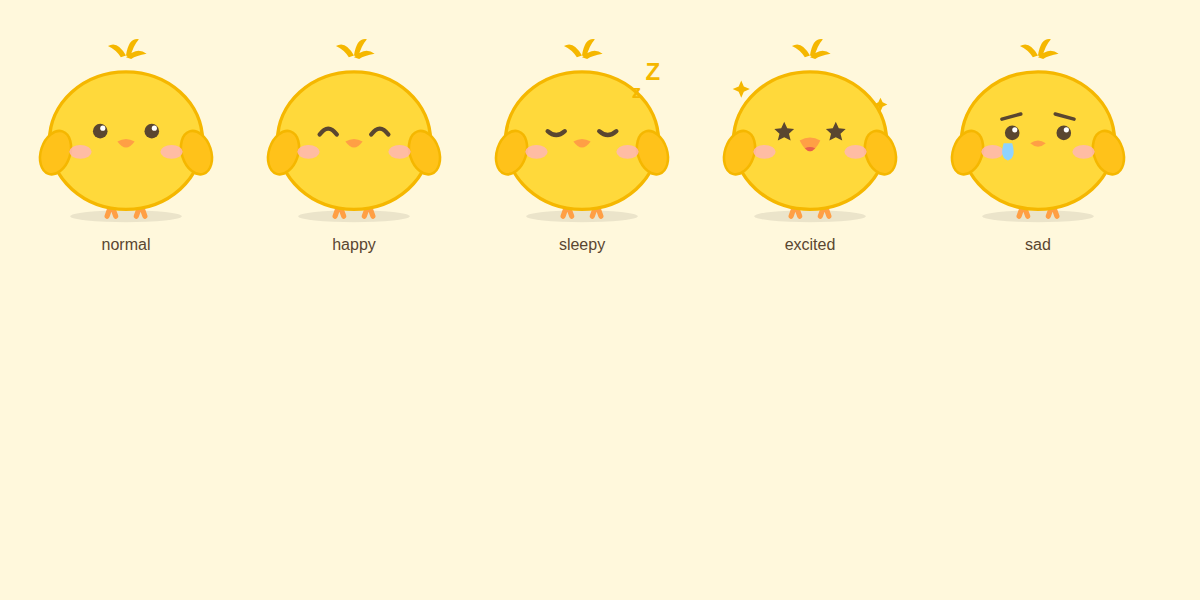
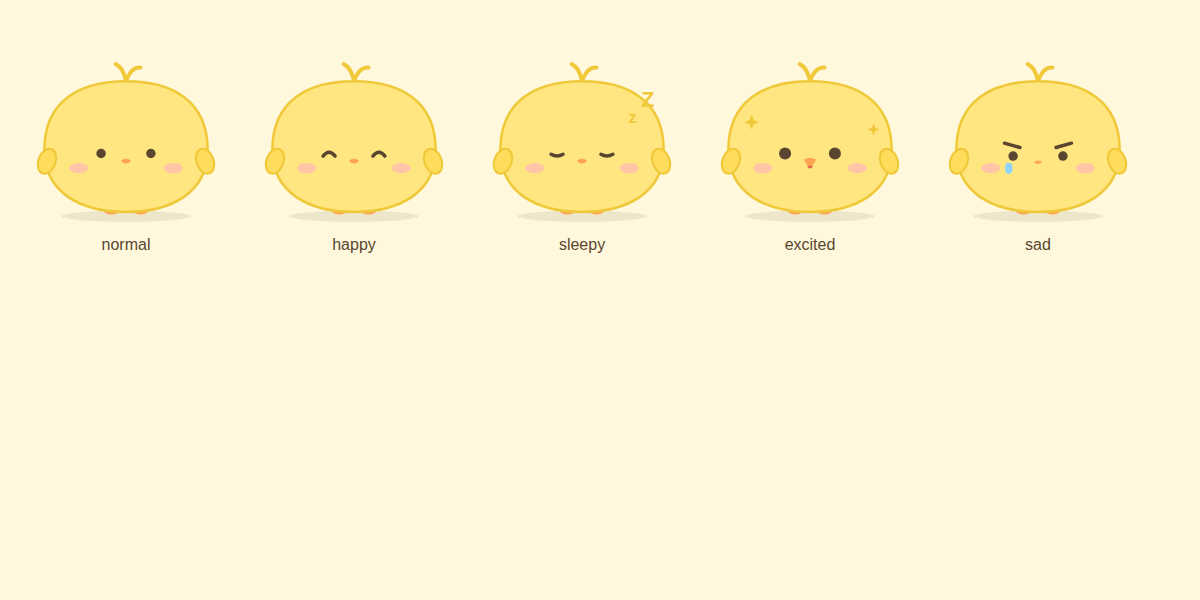
Redraw chick (pale yellow, dot eyes) and rework home layout
Claude-Session: https://claude.ai/code/session_01URLdKwTXqM65WTxiyKZpAR

diff --git a/app/src/chickSvgs.ts b/app/src/chickSvgs.ts
@@ -1,9 +1,9 @@
 // 자동 생성 파일 — tools/make_chick.js 로 만들어집니다. 직접 고치지 마세요.
 export const chickSvgs = {
-  normal: "<svg xmlns=\"http://www.w3.org/2000/svg\" viewBox=\"0 0 512 512\" width=\"512\" height=\"512\">\n  <ellipse cx=\"256\" cy=\"466\" rx=\"130\" ry=\"14\" fill=\"#000\" opacity=\"0.08\"/>\n  <path d=\"M222 438 L212 466 M222 438 L232 466 M290 438 L280 466 M290 438 L300 466\" stroke=\"#FF9F45\" stroke-width=\"12\" stroke-linecap=\"round\"/>\n  <path d=\"M256 92 Q236 56 214 70 Q232 78 244 96z M256 92 Q262 50 286 54 Q272 70 266 96z M256 96 Q282 70 304 88 Q280 92 268 100z\" fill=\"#F5B700\"/>\n  <ellipse cx=\"256\" cy=\"290\" rx=\"178\" ry=\"160\" fill=\"#FFD93B\" stroke=\"#F5B700\" stroke-width=\"8\"/>\n  <ellipse cx=\"92\" cy=\"318\" rx=\"34\" ry=\"52\" fill=\"#FFC21A\" stroke=\"#F5B700\" stroke-width=\"6\" transform=\"rotate(18 92 318)\"/>\n  <ellipse cx=\"420\" cy=\"318\" rx=\"34\" ry=\"52\" fill=\"#FFC21A\" stroke=\"#F5B700\" stroke-width=\"6\" transform=\"rotate(-18 420 318)\"/>\n  <ellipse cx=\"150\" cy=\"316\" rx=\"26\" ry=\"16\" fill=\"#FFB6B6\" opacity=\"0.85\"/>\n  <ellipse cx=\"362\" cy=\"316\" rx=\"26\" ry=\"16\" fill=\"#FFB6B6\" opacity=\"0.85\"/>\n  <circle cx=\"196\" cy=\"268\" r=\"17\" fill=\"#5A4630\"/><circle cx=\"316\" cy=\"268\" r=\"17\" fill=\"#5A4630\"/>\n           <circle cx=\"202\" cy=\"261\" r=\"6\" fill=\"#fff\"/><circle cx=\"322\" cy=\"261\" r=\"6\" fill=\"#fff\"/>\n  <path d=\"M236 292 Q256 280 276 292 Q256 320 236 292z\" fill=\"#FF9F45\"/>\n</svg>",
-  happy: "<svg xmlns=\"http://www.w3.org/2000/svg\" viewBox=\"0 0 512 512\" width=\"512\" height=\"512\">\n  <ellipse cx=\"256\" cy=\"466\" rx=\"130\" ry=\"14\" fill=\"#000\" opacity=\"0.08\"/>\n  <path d=\"M222 438 L212 466 M222 438 L232 466 M290 438 L280 466 M290 438 L300 466\" stroke=\"#FF9F45\" stroke-width=\"12\" stroke-linecap=\"round\"/>\n  <path d=\"M256 92 Q236 56 214 70 Q232 78 244 96z M256 92 Q262 50 286 54 Q272 70 266 96z M256 96 Q282 70 304 88 Q280 92 268 100z\" fill=\"#F5B700\"/>\n  <ellipse cx=\"256\" cy=\"290\" rx=\"178\" ry=\"160\" fill=\"#FFD93B\" stroke=\"#F5B700\" stroke-width=\"8\"/>\n  <ellipse cx=\"92\" cy=\"318\" rx=\"34\" ry=\"52\" fill=\"#FFC21A\" stroke=\"#F5B700\" stroke-width=\"6\" transform=\"rotate(18 92 318)\"/>\n  <ellipse cx=\"420\" cy=\"318\" rx=\"34\" ry=\"52\" fill=\"#FFC21A\" stroke=\"#F5B700\" stroke-width=\"6\" transform=\"rotate(-18 420 318)\"/>\n  <ellipse cx=\"150\" cy=\"316\" rx=\"26\" ry=\"16\" fill=\"#FFB6B6\" opacity=\"0.85\"/>\n  <ellipse cx=\"362\" cy=\"316\" rx=\"26\" ry=\"16\" fill=\"#FFB6B6\" opacity=\"0.85\"/>\n  <path d=\"M176 276 Q196 248 216 276\" stroke=\"#5A4630\" stroke-width=\"10\" fill=\"none\" stroke-linecap=\"round\"/>\n          <path d=\"M296 276 Q316 248 336 276\" stroke=\"#5A4630\" stroke-width=\"10\" fill=\"none\" stroke-linecap=\"round\"/>\n  <path d=\"M236 292 Q256 280 276 292 Q256 320 236 292z\" fill=\"#FF9F45\"/>\n</svg>",
-  sleepy: "<svg xmlns=\"http://www.w3.org/2000/svg\" viewBox=\"0 0 512 512\" width=\"512\" height=\"512\">\n  <ellipse cx=\"256\" cy=\"466\" rx=\"130\" ry=\"14\" fill=\"#000\" opacity=\"0.08\"/>\n  <path d=\"M222 438 L212 466 M222 438 L232 466 M290 438 L280 466 M290 438 L300 466\" stroke=\"#FF9F45\" stroke-width=\"12\" stroke-linecap=\"round\"/>\n  <path d=\"M256 92 Q236 56 214 70 Q232 78 244 96z M256 92 Q262 50 286 54 Q272 70 266 96z M256 96 Q282 70 304 88 Q280 92 268 100z\" fill=\"#F5B700\"/>\n  <ellipse cx=\"256\" cy=\"290\" rx=\"178\" ry=\"160\" fill=\"#FFD93B\" stroke=\"#F5B700\" stroke-width=\"8\"/>\n  <ellipse cx=\"92\" cy=\"318\" rx=\"34\" ry=\"52\" fill=\"#FFC21A\" stroke=\"#F5B700\" stroke-width=\"6\" transform=\"rotate(18 92 318)\"/>\n  <ellipse cx=\"420\" cy=\"318\" rx=\"34\" ry=\"52\" fill=\"#FFC21A\" stroke=\"#F5B700\" stroke-width=\"6\" transform=\"rotate(-18 420 318)\"/>\n  <ellipse cx=\"150\" cy=\"316\" rx=\"26\" ry=\"16\" fill=\"#FFB6B6\" opacity=\"0.85\"/>\n  <ellipse cx=\"362\" cy=\"316\" rx=\"26\" ry=\"16\" fill=\"#FFB6B6\" opacity=\"0.85\"/>\n  <path d=\"M176 268 Q196 286 216 268\" stroke=\"#5A4630\" stroke-width=\"10\" fill=\"none\" stroke-linecap=\"round\"/>\n          <path d=\"M296 268 Q316 286 336 268\" stroke=\"#5A4630\" stroke-width=\"10\" fill=\"none\" stroke-linecap=\"round\"/>\n          <text x=\"372\" y=\"190\" font-size=\"44\" font-weight=\"700\" fill=\"#F5B700\" font-family=\"sans-serif\">z</text>\n          <text x=\"404\" y=\"150\" font-size=\"56\" font-weight=\"700\" fill=\"#F5B700\" font-family=\"sans-serif\">Z</text>\n  <path d=\"M236 292 Q256 280 276 292 Q256 320 236 292z\" fill=\"#FF9F45\"/>\n</svg>",
-  excited: "<svg xmlns=\"http://www.w3.org/2000/svg\" viewBox=\"0 0 512 512\" width=\"512\" height=\"512\">\n  <ellipse cx=\"256\" cy=\"466\" rx=\"130\" ry=\"14\" fill=\"#000\" opacity=\"0.08\"/>\n  <path d=\"M222 438 L212 466 M222 438 L232 466 M290 438 L280 466 M290 438 L300 466\" stroke=\"#FF9F45\" stroke-width=\"12\" stroke-linecap=\"round\"/>\n  <path d=\"M256 92 Q236 56 214 70 Q232 78 244 96z M256 92 Q262 50 286 54 Q272 70 266 96z M256 96 Q282 70 304 88 Q280 92 268 100z\" fill=\"#F5B700\"/>\n  <ellipse cx=\"256\" cy=\"290\" rx=\"178\" ry=\"160\" fill=\"#FFD93B\" stroke=\"#F5B700\" stroke-width=\"8\"/>\n  <ellipse cx=\"92\" cy=\"318\" rx=\"34\" ry=\"52\" fill=\"#FFC21A\" stroke=\"#F5B700\" stroke-width=\"6\" transform=\"rotate(18 92 318)\"/>\n  <ellipse cx=\"420\" cy=\"318\" rx=\"34\" ry=\"52\" fill=\"#FFC21A\" stroke=\"#F5B700\" stroke-width=\"6\" transform=\"rotate(-18 420 318)\"/>\n  <ellipse cx=\"150\" cy=\"316\" rx=\"26\" ry=\"16\" fill=\"#FFB6B6\" opacity=\"0.85\"/>\n  <ellipse cx=\"362\" cy=\"316\" rx=\"26\" ry=\"16\" fill=\"#FFB6B6\" opacity=\"0.85\"/>\n  <path d=\"M196 246 l7 15 16 2 -12 11 4 16 -15 -8 -15 8 4 -16 -12 -11 16 -2z\" fill=\"#5A4630\"/>\n           <path d=\"M316 246 l7 15 16 2 -12 11 4 16 -15 -8 -15 8 4 -16 -12 -11 16 -2z\" fill=\"#5A4630\"/>\n           <path d=\"M96 150 l6 14 14 6 -14 6 -6 14 -6 -14 -14 -6 14 -6z\" fill=\"#F5B700\"/>\n           <path d=\"M420 190 l5 11 11 5 -11 5 -5 11 -5 -11 -11 -5 11 -5z\" fill=\"#F5B700\"/>\n  <path d=\"M232 290 Q256 276 280 290 Q256 340 232 290z\" fill=\"#FF9F45\"/><path d=\"M244 308 Q256 322 268 308 Q256 302 244 308z\" fill=\"#E8604C\"/>\n</svg>",
-  sad: "<svg xmlns=\"http://www.w3.org/2000/svg\" viewBox=\"0 0 512 512\" width=\"512\" height=\"512\">\n  <ellipse cx=\"256\" cy=\"466\" rx=\"130\" ry=\"14\" fill=\"#000\" opacity=\"0.08\"/>\n  <path d=\"M222 438 L212 466 M222 438 L232 466 M290 438 L280 466 M290 438 L300 466\" stroke=\"#FF9F45\" stroke-width=\"12\" stroke-linecap=\"round\"/>\n  <path d=\"M256 92 Q236 56 214 70 Q232 78 244 96z M256 92 Q262 50 286 54 Q272 70 266 96z M256 96 Q282 70 304 88 Q280 92 268 100z\" fill=\"#F5B700\"/>\n  <ellipse cx=\"256\" cy=\"290\" rx=\"178\" ry=\"160\" fill=\"#FFD93B\" stroke=\"#F5B700\" stroke-width=\"8\"/>\n  <ellipse cx=\"92\" cy=\"318\" rx=\"34\" ry=\"52\" fill=\"#FFC21A\" stroke=\"#F5B700\" stroke-width=\"6\" transform=\"rotate(18 92 318)\"/>\n  <ellipse cx=\"420\" cy=\"318\" rx=\"34\" ry=\"52\" fill=\"#FFC21A\" stroke=\"#F5B700\" stroke-width=\"6\" transform=\"rotate(-18 420 318)\"/>\n  <ellipse cx=\"150\" cy=\"316\" rx=\"26\" ry=\"16\" fill=\"#FFB6B6\" opacity=\"0.85\"/>\n  <ellipse cx=\"362\" cy=\"316\" rx=\"26\" ry=\"16\" fill=\"#FFB6B6\" opacity=\"0.85\"/>\n  <circle cx=\"196\" cy=\"272\" r=\"17\" fill=\"#5A4630\"/><circle cx=\"316\" cy=\"272\" r=\"17\" fill=\"#5A4630\"/>\n          <circle cx=\"202\" cy=\"265\" r=\"6\" fill=\"#fff\"/><circle cx=\"322\" cy=\"265\" r=\"6\" fill=\"#fff\"/>\n          <path d=\"M172 240 L216 228\" stroke=\"#5A4630\" stroke-width=\"8\" stroke-linecap=\"round\"/>\n          <path d=\"M340 240 L296 228\" stroke=\"#5A4630\" stroke-width=\"8\" stroke-linecap=\"round\"/>\n          <path d=\"M176 296 Q166 330 186 336 Q206 330 196 296z\" fill=\"#8FD3FF\"/>\n  <path d=\"M238 296 Q256 284 274 296 Q256 312 238 296z\" fill=\"#FF9F45\"/>\n</svg>",
+  normal: "<svg xmlns=\"http://www.w3.org/2000/svg\" viewBox=\"0 0 512 512\" width=\"512\" height=\"512\">\n  <ellipse cx=\"256\" cy=\"466\" rx=\"150\" ry=\"13\" fill=\"#000\" opacity=\"0.07\"/>\n  <ellipse cx=\"222\" cy=\"454\" rx=\"17\" ry=\"8\" fill=\"#FFA552\"/>\n  <ellipse cx=\"290\" cy=\"454\" rx=\"17\" ry=\"8\" fill=\"#FFA552\"/>\n  <path d=\"M256 152 Q250 120 232 112 M256 152 Q268 118 290 120\" stroke=\"#F0C93A\" stroke-width=\"9\" fill=\"none\" stroke-linecap=\"round\"/>\n  <path d=\"M66 312 C66 196 150 152 256 152 C362 152 446 196 446 312 C446 412 360 456 256 456 C152 456 66 412 66 312Z\" fill=\"#FFE680\" stroke=\"#F0C93A\" stroke-width=\"6\" stroke-linejoin=\"round\"/>\n  <ellipse cx=\"72\" cy=\"338\" rx=\"20\" ry=\"30\" fill=\"#FFDC5C\" stroke=\"#F0C93A\" stroke-width=\"5\" transform=\"rotate(20 72 338)\"/>\n  <ellipse cx=\"440\" cy=\"338\" rx=\"20\" ry=\"30\" fill=\"#FFDC5C\" stroke=\"#F0C93A\" stroke-width=\"5\" transform=\"rotate(-20 440 338)\"/>\n  <ellipse cx=\"146\" cy=\"354\" rx=\"22\" ry=\"12\" fill=\"#FFB6B6\" opacity=\"0.7\"/>\n  <ellipse cx=\"366\" cy=\"354\" rx=\"22\" ry=\"12\" fill=\"#FFB6B6\" opacity=\"0.7\"/>\n  <circle cx=\"198\" cy=\"320\" r=\"11\" fill=\"#5A4630\"/><circle cx=\"314\" cy=\"320\" r=\"11\" fill=\"#5A4630\"/>\n  <path d=\"M244 336 Q256 329 268 336 Q256 352 244 336z\" fill=\"#FFA552\"/>\n</svg>",
+  happy: "<svg xmlns=\"http://www.w3.org/2000/svg\" viewBox=\"0 0 512 512\" width=\"512\" height=\"512\">\n  <ellipse cx=\"256\" cy=\"466\" rx=\"150\" ry=\"13\" fill=\"#000\" opacity=\"0.07\"/>\n  <ellipse cx=\"222\" cy=\"454\" rx=\"17\" ry=\"8\" fill=\"#FFA552\"/>\n  <ellipse cx=\"290\" cy=\"454\" rx=\"17\" ry=\"8\" fill=\"#FFA552\"/>\n  <path d=\"M256 152 Q250 120 232 112 M256 152 Q268 118 290 120\" stroke=\"#F0C93A\" stroke-width=\"9\" fill=\"none\" stroke-linecap=\"round\"/>\n  <path d=\"M66 312 C66 196 150 152 256 152 C362 152 446 196 446 312 C446 412 360 456 256 456 C152 456 66 412 66 312Z\" fill=\"#FFE680\" stroke=\"#F0C93A\" stroke-width=\"6\" stroke-linejoin=\"round\"/>\n  <ellipse cx=\"72\" cy=\"338\" rx=\"20\" ry=\"30\" fill=\"#FFDC5C\" stroke=\"#F0C93A\" stroke-width=\"5\" transform=\"rotate(20 72 338)\"/>\n  <ellipse cx=\"440\" cy=\"338\" rx=\"20\" ry=\"30\" fill=\"#FFDC5C\" stroke=\"#F0C93A\" stroke-width=\"5\" transform=\"rotate(-20 440 338)\"/>\n  <ellipse cx=\"146\" cy=\"354\" rx=\"22\" ry=\"12\" fill=\"#FFB6B6\" opacity=\"0.7\"/>\n  <ellipse cx=\"366\" cy=\"354\" rx=\"22\" ry=\"12\" fill=\"#FFB6B6\" opacity=\"0.7\"/>\n  <path d=\"M184 326 Q198 308 212 326\" stroke=\"#5A4630\" stroke-width=\"8\" fill=\"none\" stroke-linecap=\"round\"/><path d=\"M300 326 Q314 308 328 326\" stroke=\"#5A4630\" stroke-width=\"8\" fill=\"none\" stroke-linecap=\"round\"/>\n  <path d=\"M244 336 Q256 329 268 336 Q256 352 244 336z\" fill=\"#FFA552\"/>\n</svg>",
+  sleepy: "<svg xmlns=\"http://www.w3.org/2000/svg\" viewBox=\"0 0 512 512\" width=\"512\" height=\"512\">\n  <ellipse cx=\"256\" cy=\"466\" rx=\"150\" ry=\"13\" fill=\"#000\" opacity=\"0.07\"/>\n  <ellipse cx=\"222\" cy=\"454\" rx=\"17\" ry=\"8\" fill=\"#FFA552\"/>\n  <ellipse cx=\"290\" cy=\"454\" rx=\"17\" ry=\"8\" fill=\"#FFA552\"/>\n  <path d=\"M256 152 Q250 120 232 112 M256 152 Q268 118 290 120\" stroke=\"#F0C93A\" stroke-width=\"9\" fill=\"none\" stroke-linecap=\"round\"/>\n  <path d=\"M66 312 C66 196 150 152 256 152 C362 152 446 196 446 312 C446 412 360 456 256 456 C152 456 66 412 66 312Z\" fill=\"#FFE680\" stroke=\"#F0C93A\" stroke-width=\"6\" stroke-linejoin=\"round\"/>\n  <ellipse cx=\"72\" cy=\"338\" rx=\"20\" ry=\"30\" fill=\"#FFDC5C\" stroke=\"#F0C93A\" stroke-width=\"5\" transform=\"rotate(20 72 338)\"/>\n  <ellipse cx=\"440\" cy=\"338\" rx=\"20\" ry=\"30\" fill=\"#FFDC5C\" stroke=\"#F0C93A\" stroke-width=\"5\" transform=\"rotate(-20 440 338)\"/>\n  <ellipse cx=\"146\" cy=\"354\" rx=\"22\" ry=\"12\" fill=\"#FFB6B6\" opacity=\"0.7\"/>\n  <ellipse cx=\"366\" cy=\"354\" rx=\"22\" ry=\"12\" fill=\"#FFB6B6\" opacity=\"0.7\"/>\n  <path d=\"M184 322 Q198 330 212 322\" stroke=\"#5A4630\" stroke-width=\"8\" fill=\"none\" stroke-linecap=\"round\"/><path d=\"M300 322 Q314 330 328 322\" stroke=\"#5A4630\" stroke-width=\"8\" fill=\"none\" stroke-linecap=\"round\"/><text x=\"364\" y=\"250\" font-size=\"38\" font-weight=\"700\" fill=\"#F0C93A\" font-family=\"sans-serif\">z</text>\n           <text x=\"394\" y=\"212\" font-size=\"50\" font-weight=\"700\" fill=\"#F0C93A\" font-family=\"sans-serif\">Z</text>\n  <path d=\"M244 336 Q256 329 268 336 Q256 352 244 336z\" fill=\"#FFA552\"/>\n</svg>",
+  excited: "<svg xmlns=\"http://www.w3.org/2000/svg\" viewBox=\"0 0 512 512\" width=\"512\" height=\"512\">\n  <ellipse cx=\"256\" cy=\"466\" rx=\"150\" ry=\"13\" fill=\"#000\" opacity=\"0.07\"/>\n  <ellipse cx=\"222\" cy=\"454\" rx=\"17\" ry=\"8\" fill=\"#FFA552\"/>\n  <ellipse cx=\"290\" cy=\"454\" rx=\"17\" ry=\"8\" fill=\"#FFA552\"/>\n  <path d=\"M256 152 Q250 120 232 112 M256 152 Q268 118 290 120\" stroke=\"#F0C93A\" stroke-width=\"9\" fill=\"none\" stroke-linecap=\"round\"/>\n  <path d=\"M66 312 C66 196 150 152 256 152 C362 152 446 196 446 312 C446 412 360 456 256 456 C152 456 66 412 66 312Z\" fill=\"#FFE680\" stroke=\"#F0C93A\" stroke-width=\"6\" stroke-linejoin=\"round\"/>\n  <ellipse cx=\"72\" cy=\"338\" rx=\"20\" ry=\"30\" fill=\"#FFDC5C\" stroke=\"#F0C93A\" stroke-width=\"5\" transform=\"rotate(20 72 338)\"/>\n  <ellipse cx=\"440\" cy=\"338\" rx=\"20\" ry=\"30\" fill=\"#FFDC5C\" stroke=\"#F0C93A\" stroke-width=\"5\" transform=\"rotate(-20 440 338)\"/>\n  <ellipse cx=\"146\" cy=\"354\" rx=\"22\" ry=\"12\" fill=\"#FFB6B6\" opacity=\"0.7\"/>\n  <ellipse cx=\"366\" cy=\"354\" rx=\"22\" ry=\"12\" fill=\"#FFB6B6\" opacity=\"0.7\"/>\n  <circle cx=\"198\" cy=\"320\" r=\"14\" fill=\"#5A4630\"/><circle cx=\"314\" cy=\"320\" r=\"14\" fill=\"#5A4630\"/><path d=\"M120 230 l5 12 12 5 -12 5 -5 12 -5 -12 -12 -5 12 -5z\" fill=\"#F0C93A\"/>\n           <path d=\"M404 250 l4 10 10 4 -10 4 -4 10 -4 -10 -10 -4 10 -4z\" fill=\"#F0C93A\"/>\n  <path d=\"M242 334 Q256 326 270 334 Q256 366 242 334z\" fill=\"#FFA552\"/><path d=\"M249 350 Q256 360 263 350 Q256 346 249 350z\" fill=\"#E8604C\"/>\n</svg>",
+  sad: "<svg xmlns=\"http://www.w3.org/2000/svg\" viewBox=\"0 0 512 512\" width=\"512\" height=\"512\">\n  <ellipse cx=\"256\" cy=\"466\" rx=\"150\" ry=\"13\" fill=\"#000\" opacity=\"0.07\"/>\n  <ellipse cx=\"222\" cy=\"454\" rx=\"17\" ry=\"8\" fill=\"#FFA552\"/>\n  <ellipse cx=\"290\" cy=\"454\" rx=\"17\" ry=\"8\" fill=\"#FFA552\"/>\n  <path d=\"M256 152 Q250 120 232 112 M256 152 Q268 118 290 120\" stroke=\"#F0C93A\" stroke-width=\"9\" fill=\"none\" stroke-linecap=\"round\"/>\n  <path d=\"M66 312 C66 196 150 152 256 152 C362 152 446 196 446 312 C446 412 360 456 256 456 C152 456 66 412 66 312Z\" fill=\"#FFE680\" stroke=\"#F0C93A\" stroke-width=\"6\" stroke-linejoin=\"round\"/>\n  <ellipse cx=\"72\" cy=\"338\" rx=\"20\" ry=\"30\" fill=\"#FFDC5C\" stroke=\"#F0C93A\" stroke-width=\"5\" transform=\"rotate(20 72 338)\"/>\n  <ellipse cx=\"440\" cy=\"338\" rx=\"20\" ry=\"30\" fill=\"#FFDC5C\" stroke=\"#F0C93A\" stroke-width=\"5\" transform=\"rotate(-20 440 338)\"/>\n  <ellipse cx=\"146\" cy=\"354\" rx=\"22\" ry=\"12\" fill=\"#FFB6B6\" opacity=\"0.7\"/>\n  <ellipse cx=\"366\" cy=\"354\" rx=\"22\" ry=\"12\" fill=\"#FFB6B6\" opacity=\"0.7\"/>\n  <circle cx=\"198\" cy=\"326\" r=\"11\" fill=\"#5A4630\"/><circle cx=\"314\" cy=\"326\" r=\"11\" fill=\"#5A4630\"/><path d=\"M178 306 L214 296\" stroke=\"#5A4630\" stroke-width=\"8\" fill=\"none\" stroke-linecap=\"round\"/><path d=\"M334 306 L298 296\" stroke=\"#5A4630\" stroke-width=\"8\" fill=\"none\" stroke-linecap=\"round\"/><path d=\"M182 342 Q174 364 188 368 Q202 364 194 342z\" fill=\"#8FD3FF\"/>\n  <path d=\"M246 340 Q256 333 266 340 Q256 350 246 340z\" fill=\"#FFA552\"/>\n</svg>",
 } as const;
 export type ChickMood = keyof typeof chickSvgs;

diff --git a/tools/make_chick.js b/tools/make_chick.js
@@ -1,32 +1,31 @@
 // 병아리 캐릭터 SVG 생성기: node tools/make_chick.js
 // 색을 바꾸려면 아래 C 값만 고치면 됩니다.
 const fs = require('fs');
-const C = { body:'#FFD93B', edge:'#F5B700', wing:'#FFC21A', beak:'#FF9F45', feet:'#FF9F45',
-            cheek:'#FFB6B6', ink:'#5A4630', white:'#FFFFFF' };
+const C = { body:'#FFE680', edge:'#F0C93A', wing:'#FFDC5C', beak:'#FFA552', feet:'#FFA552',
+            cheek:'#FFB6B6', ink:'#5A4630' };
+
+// 하찮은 점 눈: 작고, 멀리 떨어지고, 낮게 달림
+const dot = (r = 11, dy = 0) =>
+  `<circle cx="198" cy="${320 + dy}" r="${r}" fill="${C.ink}"/><circle cx="314" cy="${320 + dy}" r="${r}" fill="${C.ink}"/>`;
+const arc = (d) => `<path d="${d}" stroke="${C.ink}" stroke-width="8" fill="none" stroke-linecap="round"/>`;
 
 const eyes = {
-  normal: `<circle cx="196" cy="268" r="17" fill="${C.ink}"/><circle cx="316" cy="268" r="17" fill="${C.ink}"/>
-           <circle cx="202" cy="261" r="6" fill="#fff"/><circle cx="322" cy="261" r="6" fill="#fff"/>`,
-  happy: `<path d="M176 276 Q196 248 216 276" stroke="${C.ink}" stroke-width="10" fill="none" stroke-linecap="round"/>
-          <path d="M296 276 Q316 248 336 276" stroke="${C.ink}" stroke-width="10" fill="none" stroke-linecap="round"/>`,
-  sleepy:`<path d="M176 268 Q196 286 216 268" stroke="${C.ink}" stroke-width="10" fill="none" stroke-linecap="round"/>
-          <path d="M296 268 Q316 286 336 268" stroke="${C.ink}" stroke-width="10" fill="none" stroke-linecap="round"/>
-          <text x="372" y="190" font-size="44" font-weight="700" fill="${C.edge}" font-family="sans-serif">z</text>
-          <text x="404" y="150" font-size="56" font-weight="700" fill="${C.edge}" font-family="sans-serif">Z</text>`,
-  excited:`<path d="M196 246 l7 15 16 2 -12 11 4 16 -15 -8 -15 8 4 -16 -12 -11 16 -2z" fill="${C.ink}"/>
-           <path d="M316 246 l7 15 16 2 -12 11 4 16 -15 -8 -15 8 4 -16 -12 -11 16 -2z" fill="${C.ink}"/>
-           <path d="M96 150 l6 14 14 6 -14 6 -6 14 -6 -14 -14 -6 14 -6z" fill="${C.edge}"/>
-           <path d="M420 190 l5 11 11 5 -11 5 -5 11 -5 -11 -11 -5 11 -5z" fill="${C.edge}"/>`,
-  sad:   `<circle cx="196" cy="272" r="17" fill="${C.ink}"/><circle cx="316" cy="272" r="17" fill="${C.ink}"/>
-          <circle cx="202" cy="265" r="6" fill="#fff"/><circle cx="322" cy="265" r="6" fill="#fff"/>
-          <path d="M172 240 L216 228" stroke="${C.ink}" stroke-width="8" stroke-linecap="round"/>
-          <path d="M340 240 L296 228" stroke="${C.ink}" stroke-width="8" stroke-linecap="round"/>
-          <path d="M176 296 Q166 330 186 336 Q206 330 196 296z" fill="#8FD3FF"/>`,
+  normal: dot(),
+  happy:  arc('M184 326 Q198 308 212 326') + arc('M300 326 Q314 308 328 326'),
+  sleepy: arc('M184 322 Q198 330 212 322') + arc('M300 322 Q314 330 328 322') +
+          `<text x="364" y="250" font-size="38" font-weight="700" fill="${C.edge}" font-family="sans-serif">z</text>
+           <text x="394" y="212" font-size="50" font-weight="700" fill="${C.edge}" font-family="sans-serif">Z</text>`,
+  excited: dot(14) +
+          `<path d="M120 230 l5 12 12 5 -12 5 -5 12 -5 -12 -12 -5 12 -5z" fill="${C.edge}"/>
+           <path d="M404 250 l4 10 10 4 -10 4 -4 10 -4 -10 -10 -4 10 -4z" fill="${C.edge}"/>`,
+  sad:    dot(11, 6) +
+          arc('M178 306 L214 296') + arc('M334 306 L298 296') +
+          `<path d="M182 342 Q174 364 188 368 Q202 364 194 342z" fill="#8FD3FF"/>`,
 };
 const beak = {
-  normal: `<path d="M236 292 Q256 280 276 292 Q256 320 236 292z" fill="${C.beak}"/>`,
-  open:   `<path d="M232 290 Q256 276 280 290 Q256 340 232 290z" fill="${C.beak}"/><path d="M244 308 Q256 322 268 308 Q256 302 244 308z" fill="#E8604C"/>`,
-  sad:    `<path d="M238 296 Q256 284 274 296 Q256 312 238 296z" fill="${C.beak}"/>`,
+  normal: `<path d="M244 336 Q256 329 268 336 Q256 352 244 336z" fill="${C.beak}"/>`,
+  open:   `<path d="M242 334 Q256 326 270 334 Q256 366 242 334z" fill="${C.beak}"/><path d="M249 350 Q256 360 263 350 Q256 346 249 350z" fill="#E8604C"/>`,
+  sad:    `<path d="M246 340 Q256 333 266 340 Q256 350 246 340z" fill="${C.beak}"/>`,
 };
 const mood = {
   normal:  [eyes.normal, beak.normal],
@@ -36,14 +35,15 @@ const mood = {
   sad:     [eyes.sad, beak.sad],
 };
 const svg = (e, b) => `<svg xmlns="http://www.w3.org/2000/svg" viewBox="0 0 512 512" width="512" height="512">
-  <ellipse cx="256" cy="466" rx="130" ry="14" fill="#000" opacity="0.08"/>
-  <path d="M222 438 L212 466 M222 438 L232 466 M290 438 L280 466 M290 438 L300 466" stroke="${C.feet}" stroke-width="12" stroke-linecap="round"/>
-  <path d="M256 92 Q236 56 214 70 Q232 78 244 96z M256 92 Q262 50 286 54 Q272 70 266 96z M256 96 Q282 70 304 88 Q280 92 268 100z" fill="${C.edge}"/>
-  <ellipse cx="256" cy="290" rx="178" ry="160" fill="${C.body}" stroke="${C.edge}" stroke-width="8"/>
-  <ellipse cx="92" cy="318" rx="34" ry="52" fill="${C.wing}" stroke="${C.edge}" stroke-width="6" transform="rotate(18 92 318)"/>
-  <ellipse cx="420" cy="318" rx="34" ry="52" fill="${C.wing}" stroke="${C.edge}" stroke-width="6" transform="rotate(-18 420 318)"/>
-  <ellipse cx="150" cy="316" rx="26" ry="16" fill="${C.cheek}" opacity="0.85"/>
-  <ellipse cx="362" cy="316" rx="26" ry="16" fill="${C.cheek}" opacity="0.85"/>
+  <ellipse cx="256" cy="466" rx="150" ry="13" fill="#000" opacity="0.07"/>
+  <ellipse cx="222" cy="454" rx="17" ry="8" fill="${C.feet}"/>
+  <ellipse cx="290" cy="454" rx="17" ry="8" fill="${C.feet}"/>
+  <path d="M256 152 Q250 120 232 112 M256 152 Q268 118 290 120" stroke="${C.edge}" stroke-width="9" fill="none" stroke-linecap="round"/>
+  <path d="M66 312 C66 196 150 152 256 152 C362 152 446 196 446 312 C446 412 360 456 256 456 C152 456 66 412 66 312Z" fill="${C.body}" stroke="${C.edge}" stroke-width="6" stroke-linejoin="round"/>
+  <ellipse cx="72" cy="338" rx="20" ry="30" fill="${C.wing}" stroke="${C.edge}" stroke-width="5" transform="rotate(20 72 338)"/>
+  <ellipse cx="440" cy="338" rx="20" ry="30" fill="${C.wing}" stroke="${C.edge}" stroke-width="5" transform="rotate(-20 440 338)"/>
+  <ellipse cx="146" cy="354" rx="22" ry="12" fill="${C.cheek}" opacity="0.7"/>
+  <ellipse cx="366" cy="354" rx="22" ry="12" fill="${C.cheek}" opacity="0.7"/>
   ${e}
   ${b}
 </svg>`;
@@ -52,9 +52,9 @@ for (const [name,[e,b]] of Object.entries(mood))
 fs.writeFileSync('Content/characters/preview.html',
  `<body style="margin:0;background:#FFF8DC;display:flex;flex-wrap:wrap;gap:8px;padding:16px;font-family:sans-serif;color:#5A4630">`+
  Object.keys(mood).map(n=>`<div style="text-align:center"><img src="chick_${n}.svg" width="220"><div>${n}</div></div>`).join('')+`</body>`);
-console.log('ok');
 
 // 앱에서 바로 쓰도록 TS 파일도 함께 생성
 fs.mkdirSync('app/src', { recursive: true });
 const out = Object.keys(mood).map(n => `  ${n}: ${JSON.stringify(fs.readFileSync(`Content/characters/chick_${n}.svg`, 'utf8'))},`).join('\n');
 fs.writeFileSync('app/src/chickSvgs.ts', `// 자동 생성 파일 — tools/make_chick.js 로 만들어집니다. 직접 고치지 마세요.\nexport const chickSvgs = {\n${out}\n} as const;\nexport type ChickMood = keyof typeof chickSvgs;\n`);
+console.log('ok');

diff --git a/app/src/screens/HomeScreen.tsx b/app/src/screens/HomeScreen.tsx
@@ -1,5 +1,5 @@
 import { useEffect, useState } from 'react';
-import { Alert, Pressable, ScrollView, StyleSheet, Text, View } from 'react-native';
+import { Alert, Pressable, ScrollView, StyleSheet, Text, View, useWindowDimensions } from 'react-native';
 import * as Haptics from 'expo-haptics';
 import { Chick } from '../components/Chick';
 import { moods } from '../moods';
@@ -12,6 +12,8 @@ const DAYS = ['일', '월', '화', '수', '목', '금', '토'];
 
 export default function HomeScreen() {
   const [mood, setMood] = useState<ChickMood | null>(null);
+  const { width, height } = useWindowDimensions();
+  const heroSize = Math.min(width - 80, height * 0.28, 380);
 
   useEffect(() => {
     loadMoods().then((m) => setMood(m[todayKey()] ?? null));
@@ -33,10 +35,17 @@ export default function HomeScreen() {
         <View style={s.content}>
           <Text style={s.date}>{title}</Text>
 
-          <View style={s.bubble}>
-            <Text style={s.bubbleText}>{say}</Text>
+          <View style={s.hero}>
+            <View style={s.bubble}>
+              <Text style={s.bubbleText}>{say}</Text>
+            </View>
+            <Chick mood={mood ?? 'normal'} size={heroSize} />
           </View>
-          <Chick mood={mood ?? 'normal'} size={200} />
+
+          <View style={s.card}>
+            <Text style={s.cardTitle}>오늘의 일기</Text>
+            <Text style={s.cardEmpty}>아직 안 썼어요</Text>
+          </View>
 
           <Text style={s.section}>오늘 기분</Text>
           <View style={s.moodRow}>
@@ -56,11 +65,6 @@ export default function HomeScreen() {
               );
             })}
           </View>
-
-          <View style={s.card}>
-            <Text style={s.cardTitle}>오늘의 일기</Text>
-            <Text style={s.cardEmpty}>아직 안 썼어요</Text>
-          </View>
         </View>
       </ScrollView>
 
@@ -79,15 +83,16 @@ export default function HomeScreen() {
 
 const s = StyleSheet.create({
   root: { flex: 1, backgroundColor: color.bg },
-  scroll: { paddingBottom: 110 },
-  content: { width: '100%', maxWidth: 560, alignSelf: 'center', alignItems: 'center', padding: 20 },
+  scroll: { flexGrow: 1, paddingBottom: 100 },
+  content: { flex: 1, width: '100%', maxWidth: 560, alignSelf: 'center', alignItems: 'center', padding: 20 },
+  hero: { flex: 1, width: '100%', alignItems: 'center', justifyContent: 'center' },
   date: { fontSize: 24, fontWeight: '800', color: color.text, marginTop: 8 },
   bubble: {
     backgroundColor: color.paper, borderRadius: theme.radius.card, borderWidth: 2,
-    borderColor: color.yellow, paddingVertical: 12, paddingHorizontal: 18, marginTop: 14, marginBottom: 4,
+    borderColor: color.yellow, paddingVertical: 12, paddingHorizontal: 18, marginBottom: 8,
   },
   bubbleText: { fontSize: 17, color: color.text, textAlign: 'center' },
-  section: { alignSelf: 'flex-start', fontSize: 18, fontWeight: '700', color: color.text, marginTop: 18, marginBottom: 10 },
+  section: { alignSelf: 'flex-start', fontSize: 18, fontWeight: '700', color: color.text, marginTop: 16, marginBottom: 10 },
   moodRow: { flexDirection: 'row', gap: 10, width: '100%' },
   moodBtn: {
     flex: 1, minHeight: 92, alignItems: 'center', justifyContent: 'center', paddingVertical: 8,
@@ -96,7 +101,7 @@ const s = StyleSheet.create({
   moodBtnOn: { borderColor: color.yolk, backgroundColor: '#FFF2B8' },
   moodLabel: { fontSize: 14, color: color.textSoft, marginTop: 2 },
   moodLabelOn: { color: color.text, fontWeight: '800' },
-  card: { width: '100%', backgroundColor: color.paper, borderRadius: theme.radius.card, padding: 18, marginTop: 20 },
+  card: { width: '100%', backgroundColor: color.paper, borderRadius: theme.radius.card, padding: 16, marginTop: 8 },
   cardTitle: { fontSize: 16, fontWeight: '700', color: color.text },
   cardEmpty: { fontSize: 16, color: color.textSoft, marginTop: 6 },
   bottom: { position: 'absolute', left: 0, right: 0, bottom: 16, alignItems: 'center' },
